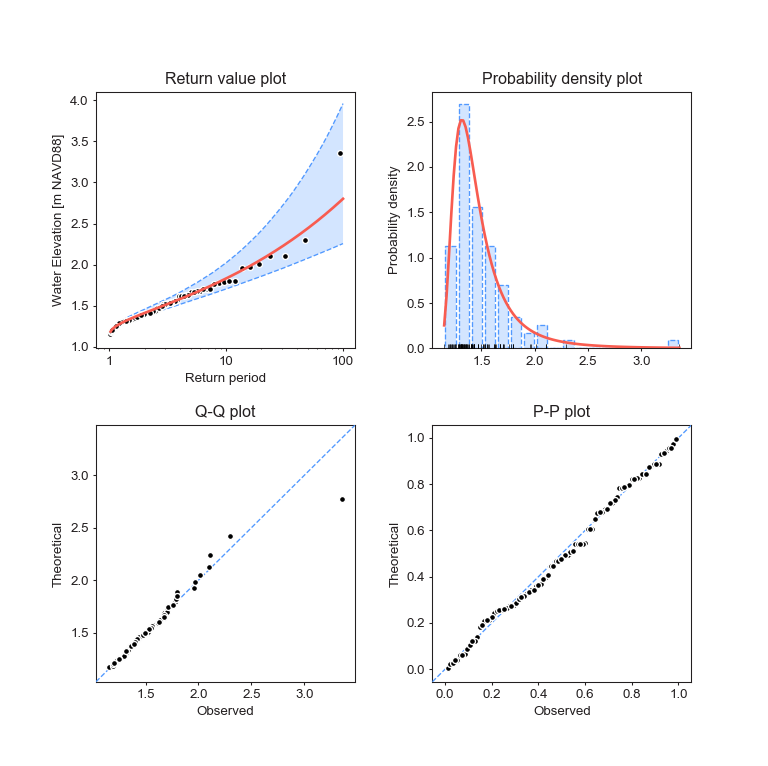
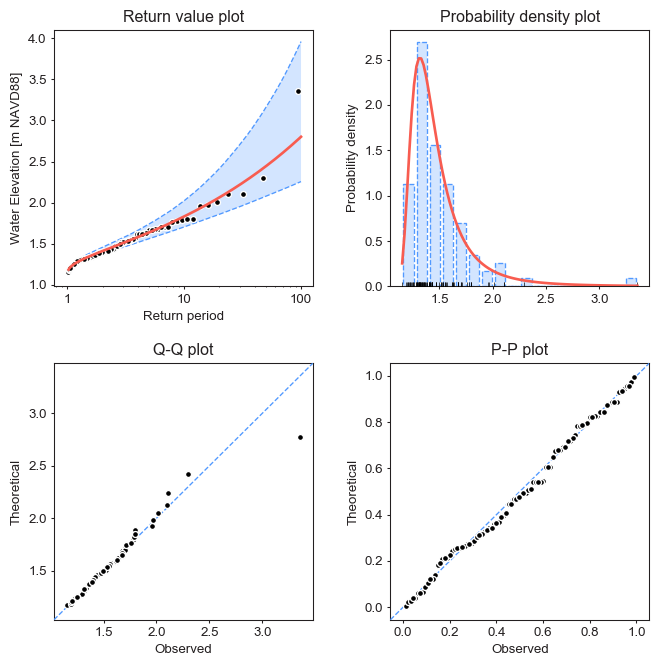
added default return_period to plotting methods

diff --git a/pyextremes/eva.py b/pyextremes/eva.py
@@ -158,6 +158,12 @@ class EVA:
             )
 
         # model section
+        summary.extend(
+            [
+                center_text('Model'),
+                '-' * width,
+            ]
+        )
         if self.model is None:
             summary.extend(
                 [
@@ -454,7 +460,7 @@ class EVA:
 
     def plot_return_values(
             self,
-            return_period: typing.Iterable,
+            return_period: typing.Iterable = None,
             return_period_size: typing.Union[str, pd.Timedelta] = '1Y',
             alpha: float = 0.95,
             plotting_position: str = 'weibull',
@@ -467,8 +473,10 @@ class EVA:
 
         Parameters
         ----------
-        return_period : array-like
+        return_period : array-like, optional
             Return period or array of return periods.
+            If None, calculates as 100 values uniformly spaced within the range
+            of return periods of the extracted extreme values.
         return_period_size : str or pandas.Timedelta, optional
             Size of return periods (default='1Y').
             If set to '30D', then a return period of 12 would be equivalent to 1 year return period.
@@ -517,6 +525,14 @@ class EVA:
             return_period_size=return_period_size,
             plotting_position=plotting_position
         )
+
+        if return_period is None:
+            logger.info('creating default return_period array')
+            return_period = np.linspace(
+                observed_return_values.loc[:, 'return period'].min(),
+                observed_return_values.loc[:, 'return period'].max(),
+                100
+            )
 
         logger.info('getting modeled return values')
         modeled_return_values = self.get_summary(
@@ -615,7 +631,7 @@ class EVA:
 
     def plot_diagnostic(
             self,
-            return_period: typing.Iterable,
+            return_period: typing.Iterable = None,
             return_period_size: typing.Union[str, pd.Timedelta] = '1Y',
             alpha: float = 0.95,
             plotting_position: str = 'weibull',
@@ -623,11 +639,19 @@ class EVA:
             **kwargs
     ):
         """
+        Plot a diagnostic plot. This plot can be used to quickly assess goodness-of-fit of the selected model.
+        The diagnostice plot consists of four axes:
+            - top left : return values
+            - top right : PDF
+            - bottom left : Q-Q
+            - bottom right : P-P
 
         Parameters
         ----------
-        return_period : array-like
+        return_period : array-like, optional
             Return period or array of return periods.
+            If None, calculates as 100 values uniformly spaced within the range
+            of return periods of the extracted extreme values.
         return_period_size : str or pandas.Timedelta, optional
             Size of return periods (default='1Y').
             If set to '30D', then a return period of 12 would be equivalent to 1 year return period.
